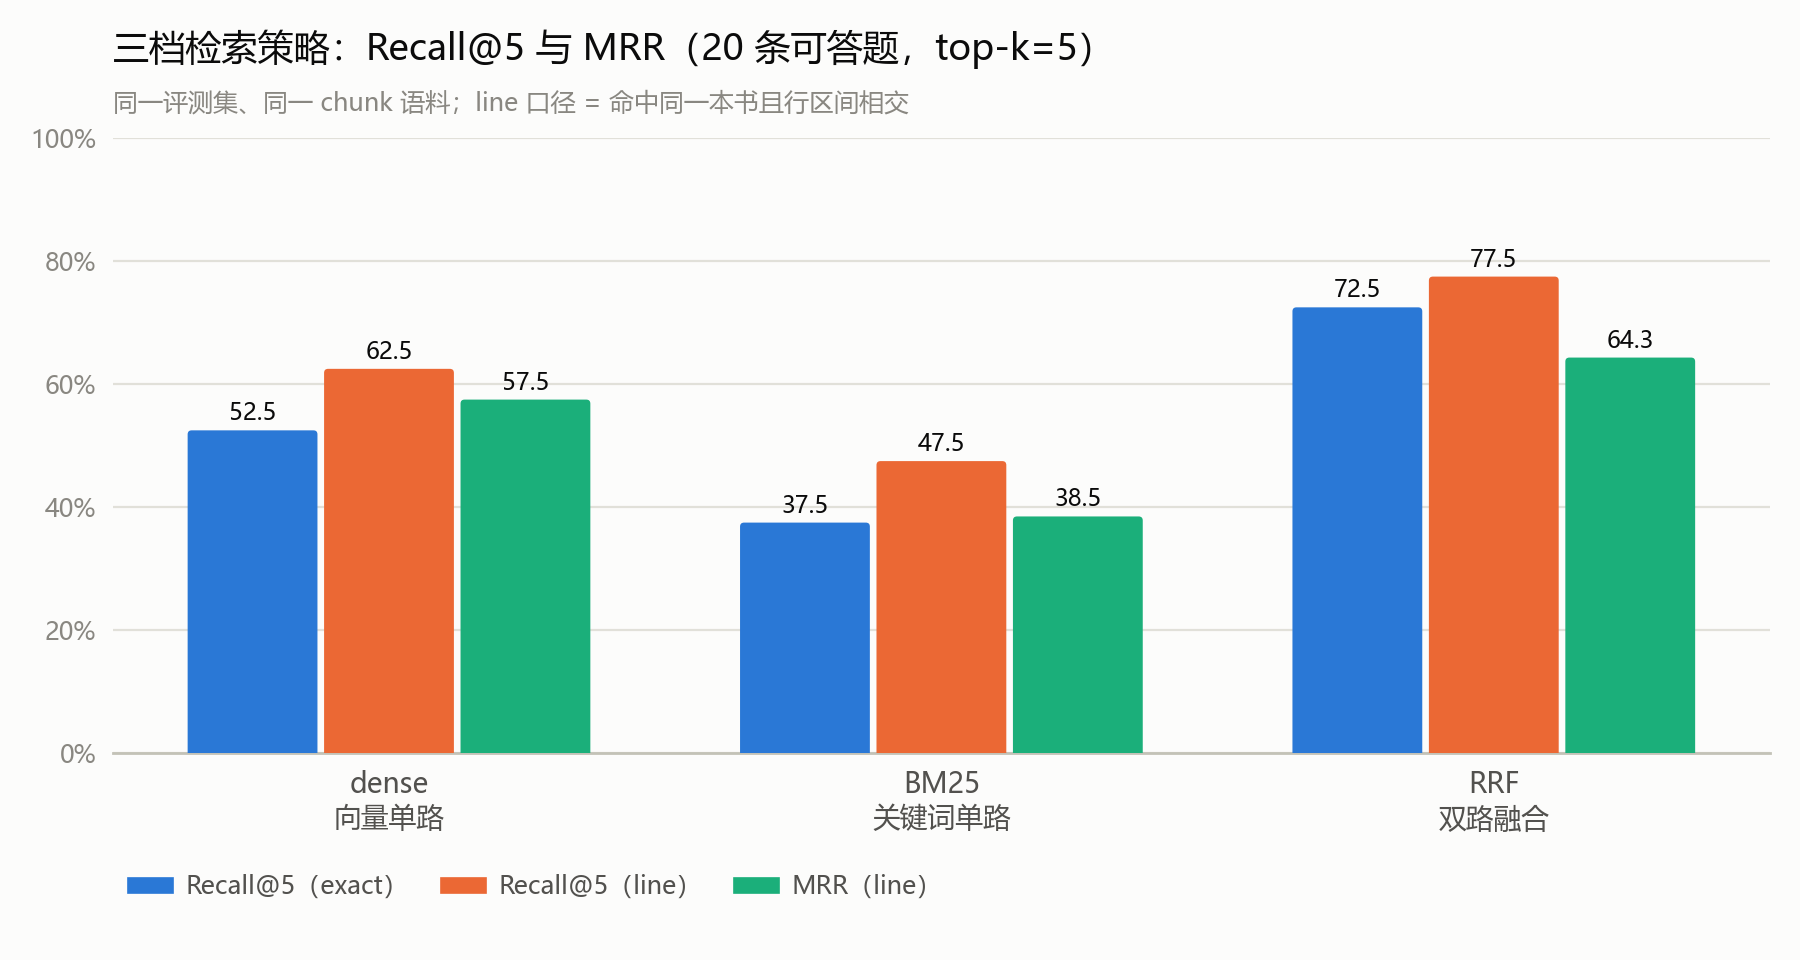
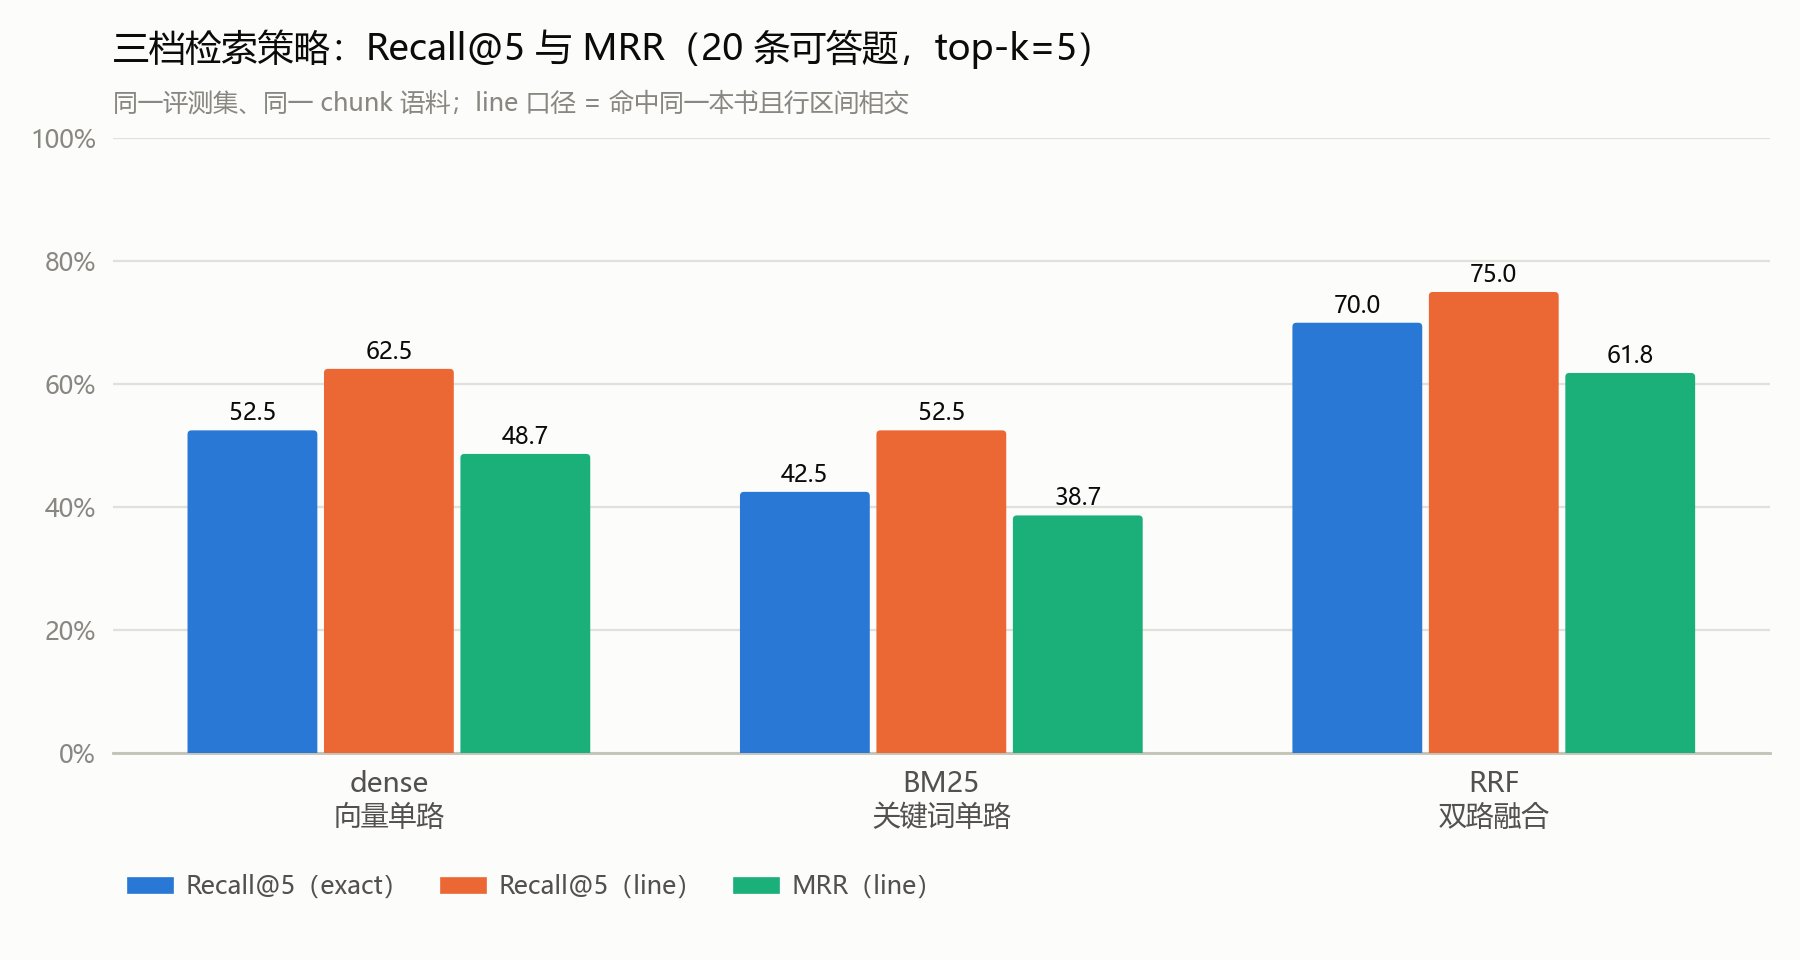
docs: 对齐过时口径并重生成对比图
- metric_compare.png 改用 results_8681_tuned.csv（RRF line 75.0%），修掉图 77.5% / 正文 75.0% 的矛盾
- PLAN.md 顶部标注已过时，仅作历史存档
- docs/corpus_pipeline.md 当前状态更新到 45 部 / 8,681 块，不再写 v1 唯一输入
- README / 面试准备去掉「下一步做 agent」等已过期表述

diff --git a/eval/make_chart.py b/eval/make_chart.py
@@ -1,8 +1,9 @@
 # -*- coding: utf-8 -*-
-"""从 results_v2.csv 重新生成 README 用的对比图。
+"""从 results_8681_tuned.csv 重新生成 README 用的对比图。
 
-旧 metric_compare.png 是评测口径修复前的数字（dense 25% / bm25 5% / rrf 20%），
-中文还是方块；这里统一改成 results_v2.csv 的真实结果。
+这张 CSV 是 8,681 条语料、rrf_k=10 / candidate_k=40 的当前口径，
+和 README §3.1 的表格同源。历史上的 results_v2.csv（2,830 条）只作对照，
+不要再拿它画图——旧 PNG 曾经因此和正文数字对不上。
 
 用法：python eval/make_chart.py
 """
@@ -17,7 +18,7 @@ from matplotlib import font_manager
 from matplotlib.patches import FancyBboxPatch
 
 HERE = Path(__file__).resolve().parent
-CSV_PATH = HERE / "results_v2.csv"
+CSV_PATH = HERE / "results_8681_tuned.csv"
 OUT_PATH = HERE.parent / "metric_compare.png"
 
 SURFACE = "#fcfcfb"

diff --git a/docs/corpus_pipeline.md b/docs/corpus_pipeline.md
@@ -7,17 +7,18 @@
 
 ---
 
-## 当前状态（2026-10-20）
+## 当前状态（2026-11-06 更新）
 
 | 产物 | 规模 | 状态 |
 |---|---|---|
-| `data/chunks/punct.jsonl` | **2,830 chunk / 16 部 / 1,168,327 字** | ✅ v1 唯一输入 |
-| `data/chunks/unpunct.jsonl` | 5,851 chunk / 29 部 / 2,231,003 字 | ✅ 已切好，v2 才索引 |
+| `data/chunks/punct.jsonl` | 2,830 chunk / 16 部 / 1,168,327 字 | ✅ 标点组（v1 口径） |
+| `data/chunks/unpunct.jsonl` | 5,851 chunk / 29 部 / 2,231,003 字 | ✅ 无标点组（v1.1 起已索引） |
+| 两组合计 | **8,681 chunk / 45 部** | ✅ 当前索引与 `embeddings.npy` 覆盖全量 |
 | `data/terminology/*.jsonl` | 324 条术语（bazi 168 + iztro 60 + lunar 96） | ✅ BM25 词典 / 术语辅助 |
 | `data/terminology/sudo-biao/` | 1,698 条结构化讲义 + 23 个 txt | ✅ 最贴合问答 |
 | `data/clean_text/` | 152 部清洗后全文 | ✅ chunk 的只读输入 |
 
-**v1 只使用标点组 16 部书。** 29 部无标点古籍（含《三命通会》《星学大成》）已经在 `unpunct.jsonl` 里切好，但按 `PLAN.md` 冻结到 v2，不进入 11 月 1 日前的 Demo。
+**v1 只使用标点组 16 部书；v1.1 起已把 29 部无标点古籍接入**，当前索引覆盖 45 部 / 8,681 块。下面关于“2,830 条”的描述是 v1 阶段的历史口径，引用时注意区分。
 
 ---
 
@@ -26,7 +27,7 @@
 ```text
 .
 ├── README.md
-├── PLAN.md                    # 11 月投递冲刺计划
+├── PLAN.md                    # 2026-10-20 冲刺计划（已过时，历史存档）
 ├── ATTRIBUTION.md             # 语料来源与许可证
 ├── data/
 │   ├── clean_text/            # 清洗后全文（chunk 的只读输入，不要改）

diff --git a/PLAN.md b/PLAN.md
@@ -1,5 +1,7 @@
 # 命理古籍 RAG —— 求职冲刺计划（11 月投递版）
 
+> ⚠ **已过时（2026-11-06 标注）**：本文件是 2026-10-20 的冲刺计划，里面的 2,830 条、10/21 排期等数字停留在 v1 阶段。当前口径以 [`README.md`](README.md) 为准；本文件只保留作过程记录，不要再按它排期或引用数字。
+
 > **本版说明（2026-10-20 重写）**
 > 原 8 周作品集计划保留在 git 历史里（commit `8a5000a` 之前）。
 > 现在目标变了：**11 月 1 日开始投日常实习**。所以整份计划改成两段式——

diff --git a/docs/面试准备.md b/docs/面试准备.md
@@ -72,7 +72,7 @@ chunk 上限 700 字，优先控制在 450 字左右，滑动重叠 60 字。
 
 融合之后整体 75.0%，比任何单路都高。
 
-**这张表还是我下一步做 agent 的直接依据**，见 Q7。
+**这张表是我做 agent 的直接依据**；agent 已完成，见 README §3.3 与 Q7。
 
 ---
 
